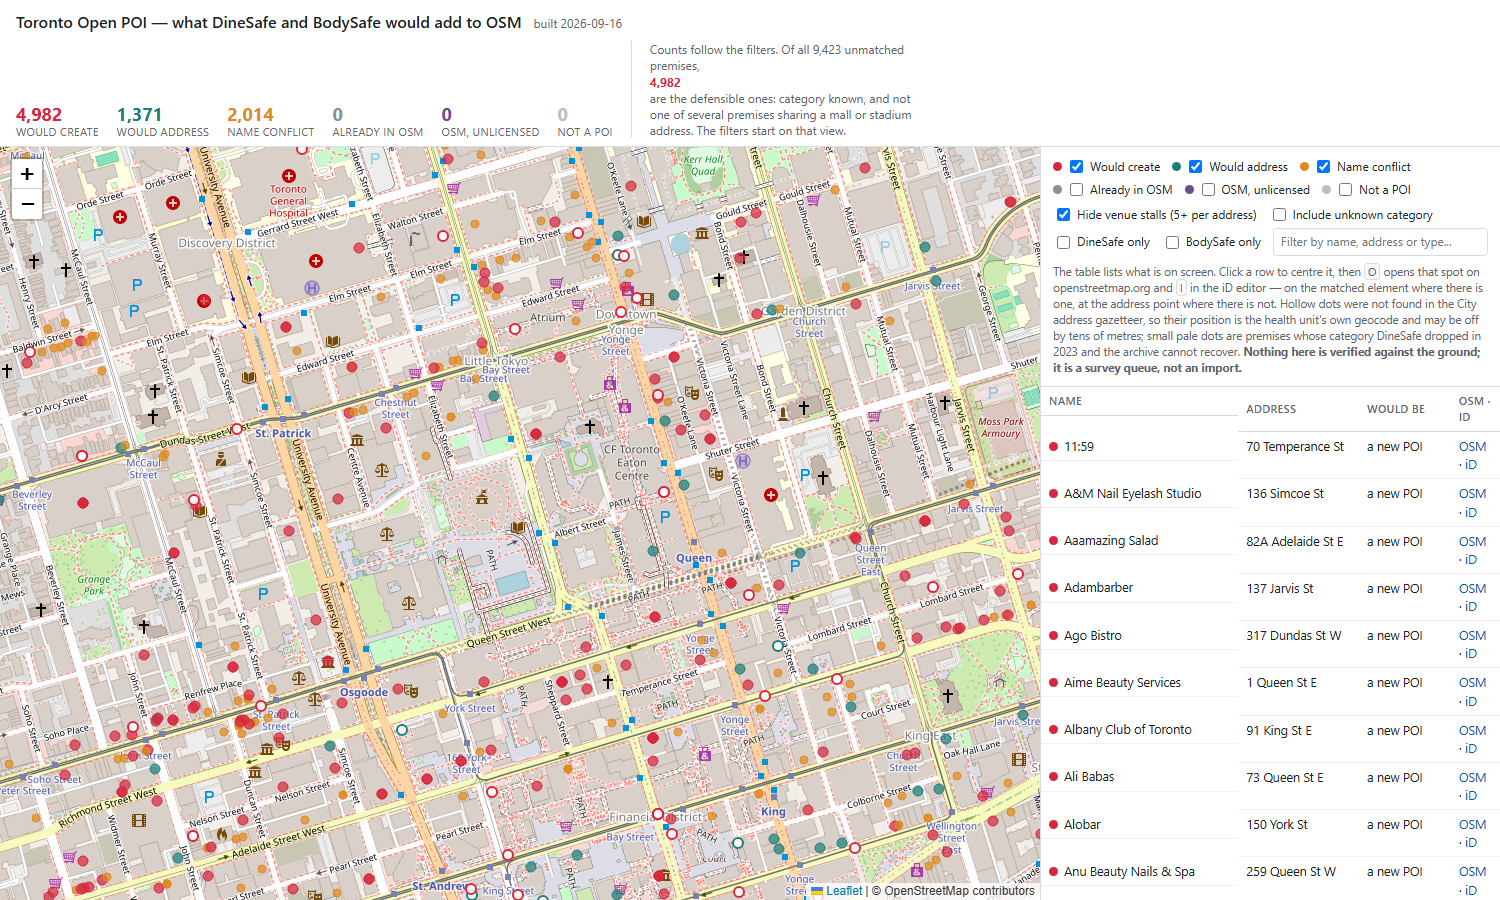
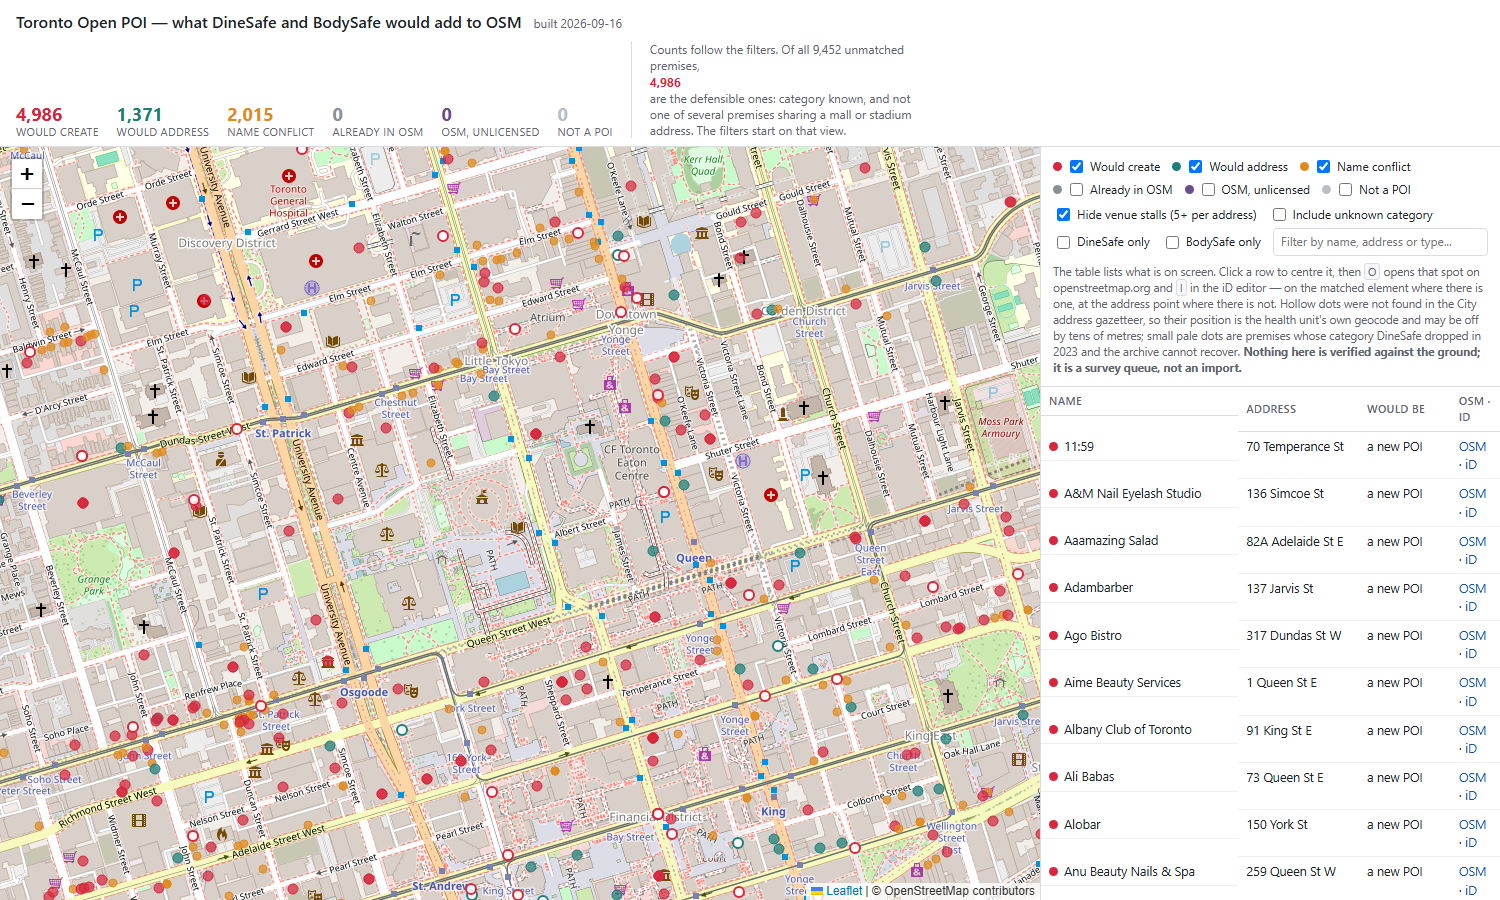
Put the conflict dot on the node it links to, and stop merging neighbours
Two defects the first cut of the explorer shipped with.

A conflict dot stayed on the City address point while its popup and its OSM link
pointed at a node up to tens of metres away -- clicking through took you
somewhere the dot was not. All three matched verdicts now sit on the element a
mapper would open; verified over 10,267 features, zero divergent.

The twin collapse reused name_key, which drops 1-4 digit tokens so that "Tim
Hortons #4021" can match "Tim Hortons" in OSM. Applied to deduplication that is
wrong: at the Rogers Centre the digits are the whole distinction, and "215
INFIELD CLASSICS", "219" and "229" became one premise. 45 groups of genuinely
separate shopfronts were being merged, including two Pizza Pizza stands on
different levels and two units of Baker's Fiesta. Deduplication now keys on unit
plus a name normalisation that keeps digits, which still catches 804 of the 826
CRM migration twins and over-collapses nothing.

Also: README prose no longer pins counts that change on every pull, and the
notes' dedup figures are restated from the stricter key.

diff --git a/src/reduce.py b/src/reduce.py
@@ -178,19 +178,32 @@ def name_key(name):
     return re.sub(r'\s+', ' ', STOPWORDS.sub('', s)).strip()
 
 
+def _twin_key(rec):
+    """Identity for deduplication -- deliberately stricter than ``name_key``.
+
+    ``name_key`` drops 1-4 digit tokens, which is right for matching OSM ("Tim
+    Hortons #4021" is "Tim Hortons") and wrong here: at the Rogers Centre the digits
+    are the whole distinction between "215 INFIELD CLASSICS" and "229 INFIELD
+    CLASSICS". Keep them, and keep the unit, so two shopfronts in one building stay
+    two. Case and punctuation still collapse, so "A&W" and "A & W" are one.
+    """
+    name = ' '.join(''.join(c if c.isalnum() else ' ' for c in rec['name'].lower()).split())
+    return rec['source'], rec['key'], rec['unit'] or '', name
+
+
 def _collapse_twins(recs):
-    """One premise per (address, name), not one per licence id.
+    """One premise per shopfront, not one per licence id.
 
     The 2025 CRM migration re-keyed part of DineSafe from a numeric id to a
-    Salesforce one without retiring the old rows, so ~830 premises appear twice
-    under the same name and address. A re-licence at the same address does the
+    Salesforce one without retiring the old rows, so ~800 premises appear twice
+    under the same name, unit and address. A re-licence at the same address does the
     same thing. Either way OSM would map one shopfront, so keep the newest.
     """
     groups = collections.defaultdict(list)
     loose = []
     for r in recs:
         if r['key']:
-            groups[(r['source'], r['key'], name_key(r['name']))].append(r)
+            groups[_twin_key(r)].append(r)
         else:
             loose.append(r)
     kept = []

diff --git a/src/classify.py b/src/classify.py
@@ -115,10 +115,15 @@ def classify(records, gaz):
                 hit, how = agreeing[0], 'address+name'
             else:
                 named = [o for o in candidates if o['name']]
-                r.update(verdict='conflict', osm_id=named[0]['id'] if named else candidates[0]['id'],
-                         osm_name=named[0]['name'] if named else None, match_m=0,
+                other = named[0] if named else candidates[0]
+                r.update(verdict='conflict', osm_id=other['id'], osm_name=other['name'],
+                         match_m=round(metres(r['alon'], r['alat'],
+                                              other['lon'], other['lat']), 1),
                          reason='OSM has %d POI(s) at this address, none by this name'
                                 % len(candidates))
+                # Like the other matched verdicts, the dot goes on the element a
+                # mapper would open -- not on the address point behind it.
+                r['alat'], r['alon'] = other['lat'], other['lon']
                 claimed.update(o['id'] for o in candidates)
                 continue
 

diff --git a/notes/osm-viability.md b/notes/osm-viability.md
@@ -181,13 +181,19 @@ snapshots will record it.
 
 ## One thing the explorer found that this survey did not
 
-Building `src/` on top of these numbers surfaced a duplication the survey missed: **884
-premises appear twice**, under the same name at the same address. 826 of those span the
-2025 CRM migration, which re-keyed part of DineSafe from a numeric id to a Salesforce one
-without retiring the old rows; the rest are re-licences at the same address. Counted as
-establishments they are two; mapped they are one shopfront. `src/reduce.py` collapses them,
-which takes the establishment count from 22,756 to 21,870 and scales every figure in the
-table above down by about 6%. The shares and the conclusions are unaffected.
+Building `src/` on top of these numbers surfaced a duplication the survey missed: **839
+premises appear twice**, under the same name, unit and address. 804 of those span the 2025
+CRM migration, which re-keyed part of DineSafe from a numeric id to a Salesforce one
+without retiring the old rows; the rest are re-licences at one address. Counted as
+establishments they are two; mapped they are one shopfront. `src/reduce.py` collapses
+them, taking the establishment count from 22,756 to 21,917 and scaling every figure in
+the table above down by about 6%. The shares and the conclusions are unaffected.
+
+The dedup key is deliberately stricter than the one used to match OSM. Matching drops
+1-4 digit tokens, so "Tim Hortons #4021" finds "Tim Hortons"; deduplicating must not,
+because at the Rogers Centre those digits are the entire difference between "215 INFIELD
+CLASSICS" and "229 INFIELD CLASSICS". The looser key collapsed 45 groups of genuinely
+separate shopfronts before this was caught.
 
 ## Licence: not a blocker
 

diff --git a/README.md b/README.md
@@ -75,9 +75,10 @@ acting on it would mean:
 | **OSM, unlicensed** | mapped at a confirmed Toronto address with no licence behind it — closed, mis-tagged, or missed |
 | **not a POI** | a kitchen inside a school, nursing home or processing plant |
 
-The filters open on the defensible subset: **4,982 premises** that are unmatched, whose
-category is known, and that do not share a mall or stadium address with four others. All
-9,423 unmatched are there behind the toggles, and the counts follow whatever you filter to.
+The filters open on the defensible subset: the **~5,000 premises** that are unmatched,
+whose category is known, and that do not share a mall or stadium address with four
+others. All ~9,400 unmatched are there behind the toggles, and the header counts follow
+whatever you filter to. `run.py build` prints the exact figures for the current pull.
 
 Click a row to centre it, then <kbd>O</kbd> opens that spot on openstreetmap.org and
 <kbd>I</kbd> in the iD editor — on the matched element where there is one, at the City
